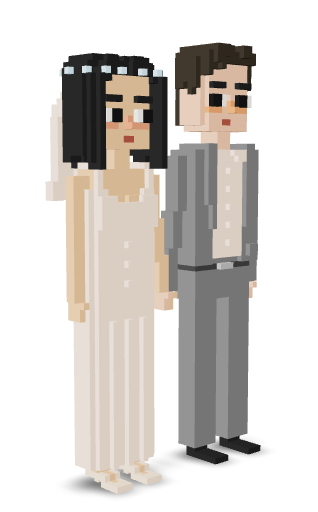
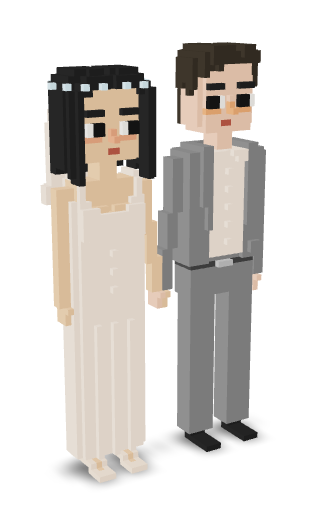
update

Changed region(s): [[0.1132, 0.0625, 0.8491, 0.9688], [0.566, 0.0625, 0.6509, 0.0938]]

diff --git a/index.html b/index.html
@@ -11,7 +11,7 @@
   </head>
   <body>
     <!-- <model-viewer> HTML element -->
-    <model-viewer bounds="tight" enable-pan src="meikfan.glb" ar ar-modes="scene-viewer webxr quick-look" camera-controls poster="poster.webp" shadow-intensity="1.22" camera-orbit="-192.1deg 83.96deg auto" environment-image="neutral" auto-rotate>
+    <model-viewer bounds="tight" enable-pan src="meikfan.glb" ar ar-modes="scene-viewer webxr quick-look" camera-controls environment-image="neutral" poster="poster.webp" shadow-intensity="1.22" auto-rotate>
       <div class="progress-bar hide" slot="progress-bar">
           <div class="update-bar"></div>
       </div>
